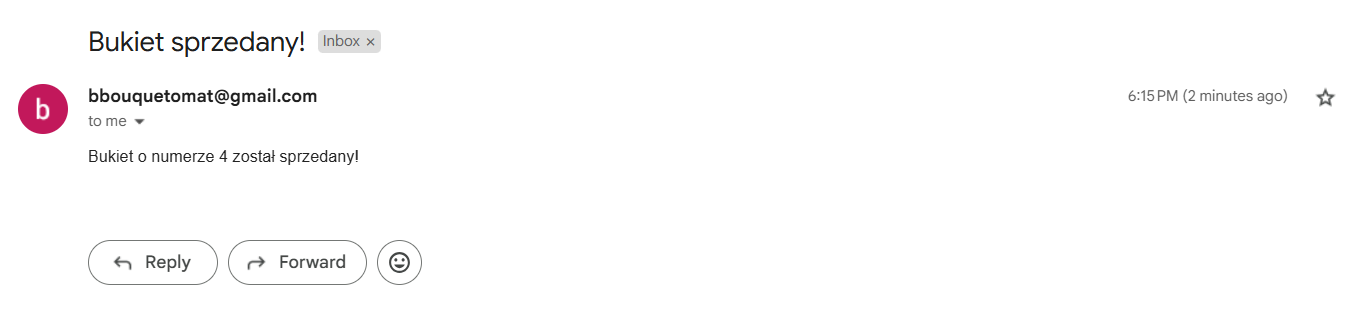
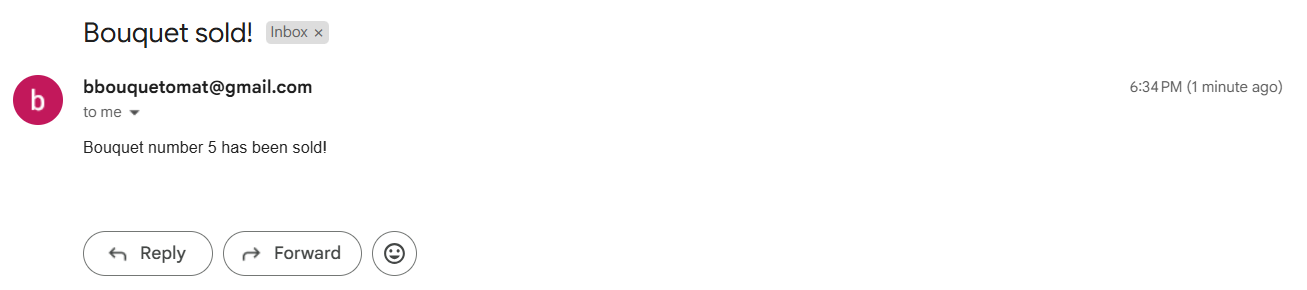
Adding a new photo

diff --git a/bouquetomat/src/main/java/com/example/bouquetomat/service/NotificationService.java b/bouquetomat/src/main/java/com/example/bouquetomat/service/NotificationService.java
@@ -19,8 +19,8 @@ public class NotificationService {
     private NotificationRepository notificationRepository;
     @Transactional
     public void sendNotification(BouquetOrder order) {
-        String subject = "Bukiet sprzedany!";
-        String body = "Bukiet o numerze " + order.getBouquet().getSlotNumber() + " został sprzedany!";
+        String subject = "Bouquet sold!";
+        String body = "Bouquet number " + order.getBouquet().getSlotNumber() + " has been sold!";
         String notificationType = "EMAIL";
 
         SimpleMailMessage message = new SimpleMailMessage();
@@ -29,10 +29,10 @@ public class NotificationService {
         message.setText(body);
 
         mailSender.send(message);
-        System.out.println("Email wysłany do: bbouquetomat@gmail.com");
+        System.out.println("Email sent to: bbouquetomat@gmail.com");
 
         Notification notification = new Notification(order, body, notificationType);
         notificationRepository.save(notification);
-        System.out.println("Powiadomienie zapisane w bazie: " + notification);
+        System.out.println("Notification saved in the database: " + notification);
     }
 }
